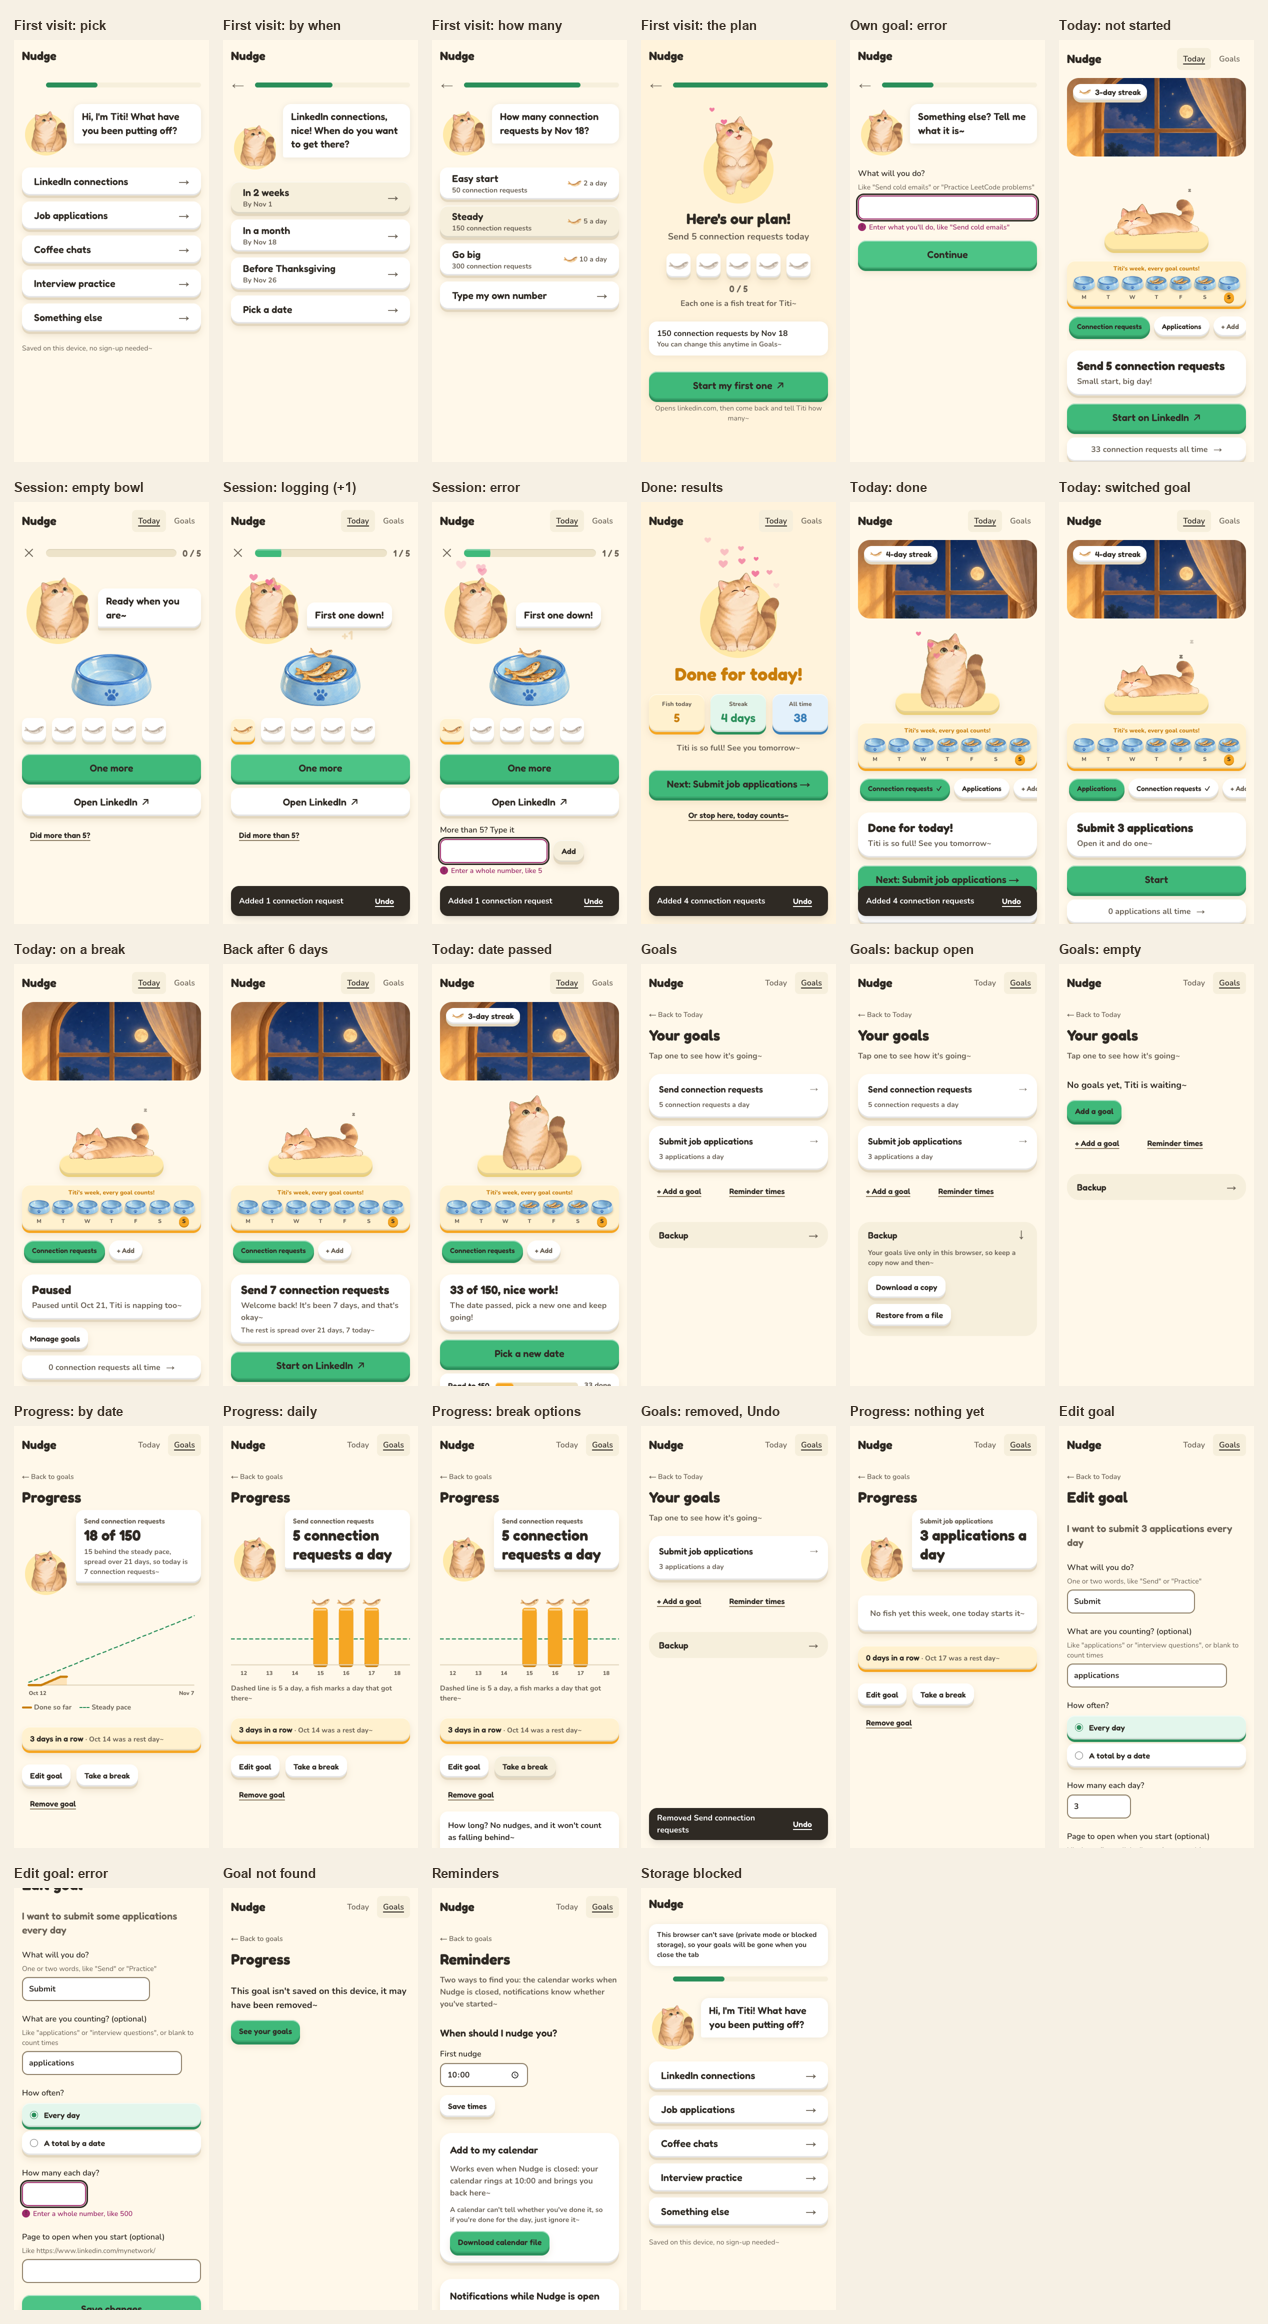
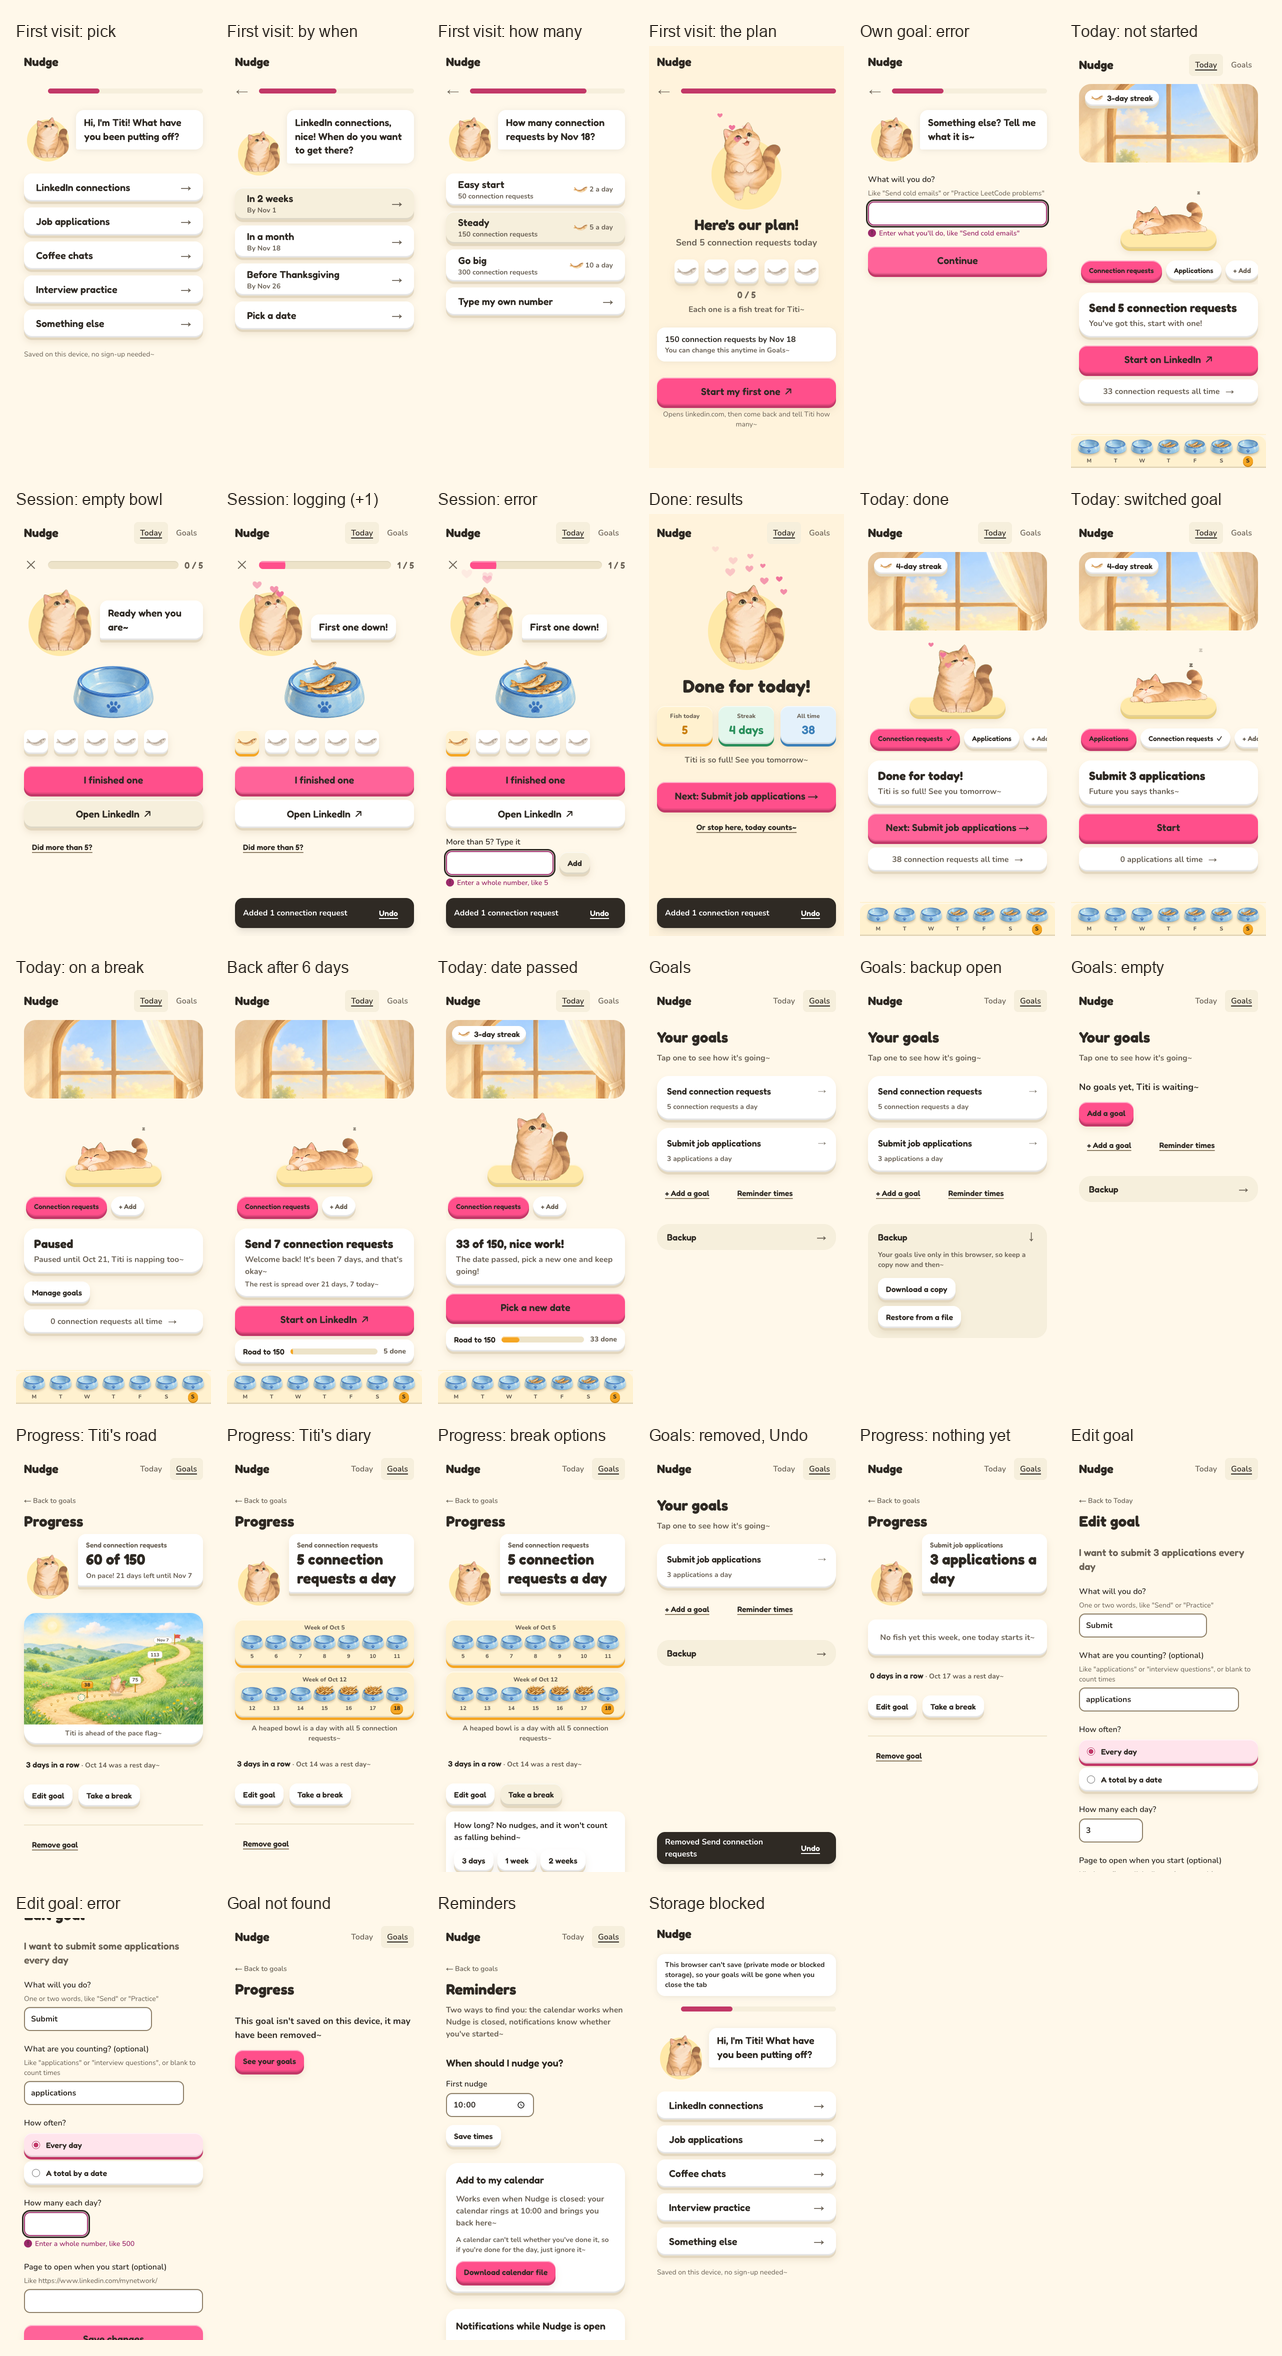
docs: states overview recaptured, Today and colour descriptions updated

diff --git a/README.md b/README.md
@@ -19,7 +19,7 @@ Design, Build, Ship · Assignment 3 (Patterns & Flows).
 | Flow | What happens | Where |
 |---|---|---|
 | First visit | Titi asks one thing per screen, every answer is a tap: what you've been putting off, by when, how many (each choice shown as fish treats a day), then today's plan and the first task right away. Nothing to read, no empty screen, no sign-up. | `/` with nothing saved; the same walk is "+ Add" later |
-| Main task | Today puts the action first: a short painted window that changes with the hour, then which goal is up now, one sentence and the Start button, with Titi and this week's bowls below. Tap Start (the page opens in a new tab), come back and tap "I finished one" for each one done. Each log sends a fish into Titi's bowl; reaching today's number ends in a results screen whose three cards count up. | `/` |
+| Main task | Today is Titi's room: the painted window changes with the hour, Titi waits on her mat, then which goal is up now, one sentence and the Start button; this week's bowls sit on a shelf that stays at the foot of a phone screen while the room scrolls. Tap Start (the page opens in a new tab), come back and tap "I finished one" for each one done. Each log sends a fish into Titi's bowl; reaching today's number ends in a results screen whose three cards count up. | `/` |
 | Coming back | It remembers: your goals, the streak (one for the whole app, with a forgiven rest day a week), what you did this week. A warm line says why today's number is what it is. Reminders come two ways: a calendar file that works when Nudge is closed, and browser notifications that stop once you've started. | `/`, `/reminders` |
 
 ![Every state of every page](docs/states.png)
@@ -28,7 +28,7 @@ Design, Build, Ship · Assignment 3 (Patterns & Flows).
 
 - **Encourage, don't remove the push.** The app still pushes people to finish, always by cheering them on. Nudges get firmer through the day but never shame; a missed deadline leads with progress ("10 of 100, nice work!") and then the next step.
 - **Fish treats go to Titi, numbers go to the goal.** The streak and the week of bowls are shared by every goal; the daily number, the session bowl, Titi's road (a by-date goal) and Titi's diary (a daily goal) belong to one goal. Each symbol keeps one meaning: a fish is one task done, a bowl is one day, and Titi's road marks its quarters with signposts.
-- **Painted pieces are never stitched.** The window, the bowls and Titi each stand alone on plain interface, never laid over another painting; Titi keeps her drawn frame animations. (An earlier version composited everything into one room and looked pasted.)
+- **Painted pieces are never stitched.** The window, the bowls and Titi each stand alone on plain interface, never laid over another painting; Titi keeps her drawn frame animations. (An earlier version composited everything into one room and looked pasted.) The one exception is Titi's road, where the things that move with progress are drawn on the painted hillside, smaller as they go up the hill.
 - **Clay, not outlines.** A warm light page where the few things you act on are saturated and chunky (a highlight on top, a solid lip underneath, pressing sinks it), everything else quiet.
 - **No full stops in the interface.** Encouraging lines end with "!", easygoing ones with "~"; errors and labels take no end punctuation. A test enforces it.
 - **Undo beats confirm.** Removing a goal happens at once and Goals offers Undo; only replacing everything from a backup asks first.
@@ -40,7 +40,7 @@ Research behind these choices: [research.md](research.md), and a study of Duolin
 
 - Every page and error state was checked with axe-core (WCAG 2.2 AA + best practices): 0 violations across 16 pages and states.
 - Keyboard only: the whole first visit, a session from Start to done, and Undo were walked with Tab and Enter; focus moves to each new screen's heading.
-- Text contrast, checked pair by pair: ink 13.4:1 and muted 5.7:1 on the page; ink on mint 5.7:1, on honey 7.0:1, on sky 5.6:1; control edges 3.6:1; the error berry 6.7:1.
+- Text contrast, checked pair by pair: ink 13.4:1 and muted 5.7:1 on the page; ink on the rose button 4.6:1 (5.1:1 on hover), on honey 7.0:1, on sky 5.6:1; control edges 3.6:1; the error berry 6.7:1.
 - Every field has a visible label; every action is a real button or link; the drawn animations fall back to stills under `prefers-reduced-motion`, and the count-ups, hops and hearts stop.
 
 ## Build and check

diff --git a/log.md b/log.md
@@ -64,3 +64,4 @@
 | 2026-10-18 | 本人请 Agent（Cowork 会话）审查 UI/UX，并要求直接修改（不提交、不推送） | Agent 在 390 与 1440 宽实际走完三条流程，列 11 条问题（评审文档另存）。本次改动：1 离开记录页（点 ✕、完成页的两个按钮）时清掉 Undo 提示条，不再盖住 Today 的主按钮；2 Today 重排：窗景横幅变矮（1040:300），目标标签、标题句、主按钮、Road 放在窗景下方第一屏，Titi 与一周的碗移到下面；6「Nudge you tomorrow?」只在当天做满后出现；3 一个符号一个意思：Titi 路上的里程碑由碗改为小路牌；4 记录页的碗只显示当前目标的鱼，与进度条一致；5 记录页只保留一个主按钮「I finished one」，鱼干格子只表示进度、不可点，首次提示改为「Every one you finish is a fish for me~」；7 Today 各块统一使用同一容器宽度，桌面端左右对齐；8 进度页「N days in a row」去掉 clay 样式；9「Remove goal」移到页面最底部并用分隔线隔开；10 完成页没有下一个目标时按钮由「Continue」改为「Back to Titi's room」；11 Goals 页去掉与顶部导航重复的「← Back to Today」。README、flows.md 同步。128 个测试通过，类型检查与 lint 无错，两种宽度截图核对，控制台无报错 |
 | 2026-10-18 | 本人：进度页的地图画得太粗糙；先选「精致绘本风」，随后本人改为让 Agent 写提示词、自己用 GPT 生成一张山坡小路图 | Agent 先用 SVG 重画了一版（天空渐变、三层山、云、树、篱笆、写数字的路牌），本人看后改用 GPT 图。Agent 说明风险：Titi、路牌、数字、pace 圈随进度变化，只能由代码画在图上，与「不叠画」规则有冲突，本人仍选择尝试。实现：图存为 public/cat/road.webp（161 KB）；手工描出画中小路的中线（20 个点，Catmull-Rom 平滑，按弧长取位置）；Titi、爪印、路桩、红旗随山坡远近缩小（底部 1 倍，坡顶约 0.5 倍，Titi 最小 0.62 倍），路牌板和日期标签保持同一大小以保证手机上可读；走到终点时 Titi 停在旗前。README 致谢补上该图。SVG 版保留在 Agent 的工作区备份。按 5、95、150 三种进度截图核对，128 个测试通过 |
 | 2026-10-18 | 本人：Titi 放到下面就看不到主要设计元素了；问能否把碗固定在底部、中间滚动；窗户裁得太多 | 首页改为：窗景恢复 1040:457 的高度，Titi 回到窗下居中（宽 160 px）在垫子上，然后是目标标签、句子卡片、主按钮、Road；一周的碗做成一条矮架子，手机宽度（640 以下）固定在屏幕底部（奶油色 clay 面板、顶边一道浅色架沿、说明文字只给读屏器、留 safe-area 内边距），640 以上回到内容列里。Undo 提示条在首页抬到架子上方；记录页和完成页没有架子，提示条位置不变；页面 viewport 设 viewport-fit=cover。375 宽上主按钮和 Road 都在第一屏，桌面端排布不变。骨架屏同步。127 个测试通过，重新构建后手机与桌面截图核对 |
+| 2026-10-18 | 本人选定主按钮 A 方案（玫红），并批准推送部署 | 主色令牌 --color-primary 改为 #ff4f8b（hover #ff6399、按压 #f0417c、下沿 #c23868），按钮文字仍用深墨色（对比度 4.6:1，hover 5.1:1，均过 AA）；新增 --color-leaf（原薄荷深绿）只给「生长」类元素：路上的 pace 圈和完成页的连续天数卡；新增 --color-primary-soft 给单选框选中态，替掉原来写死的薄荷浅绿。AGENTS.md 的配色规则改写（玫红只给主操作和选中的目标标签，叶绿只给生长类元素，红旗是唯一的纯红，不再用橙色），README 的对比度数字、首页描述、叠画例外同步，flows.md 首页描述同步。axe 复查 16 个页面状态 0 项违规，127 个测试通过。docs/states.png 按新首页和新配色重截（28 个状态，390 宽）。随后推送 main，Vercel 自动部署 |

diff --git a/flows.md b/flows.md
@@ -31,7 +31,7 @@ flowchart TD
 
 ## 2. The main task: Today, the session, and the results
 
-Today puts the main action on the first screen: a short window with the streak, the goal tabs, one sentence and one button, the road so far; Titi and the week of bowls sit below. The "Nudge you tomorrow?" card only appears once today's number is reached.
+Today is Titi's room: the window with the streak, Titi on her mat, the goal tabs, one sentence and one button, the road so far. The week of bowls is a shelf fixed at the foot of a phone screen (from 640px up it sits under the room), so Titi stays big and the button still lands on the first screen. The "Nudge you tomorrow?" card only appears once today's number is reached.
 
 ```mermaid
 flowchart TD
